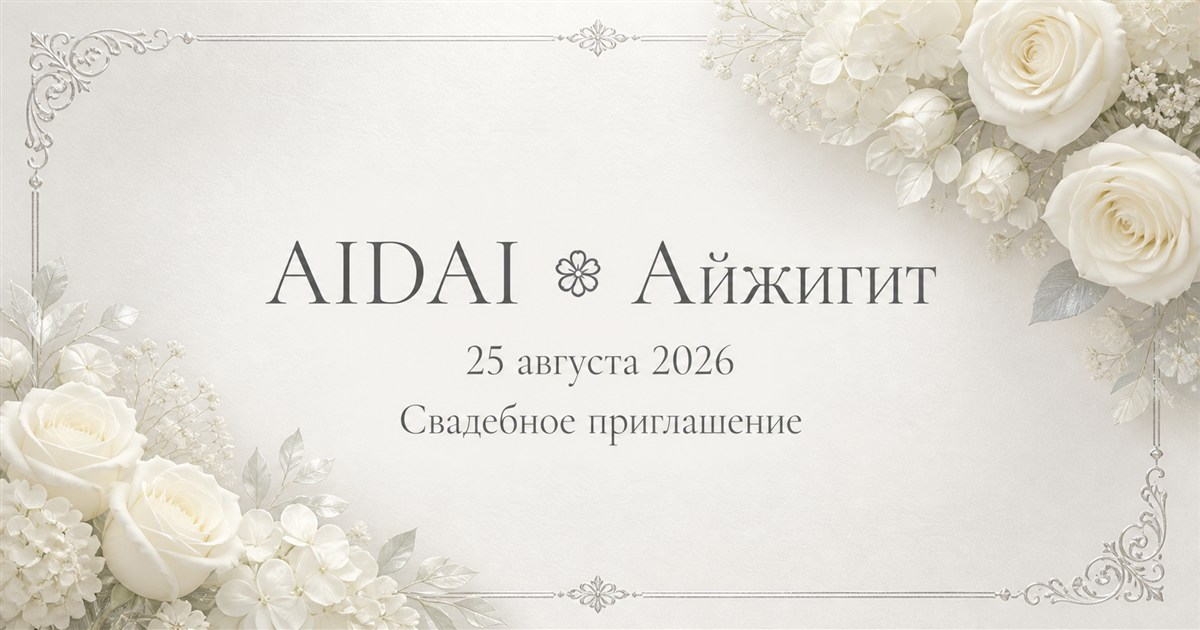
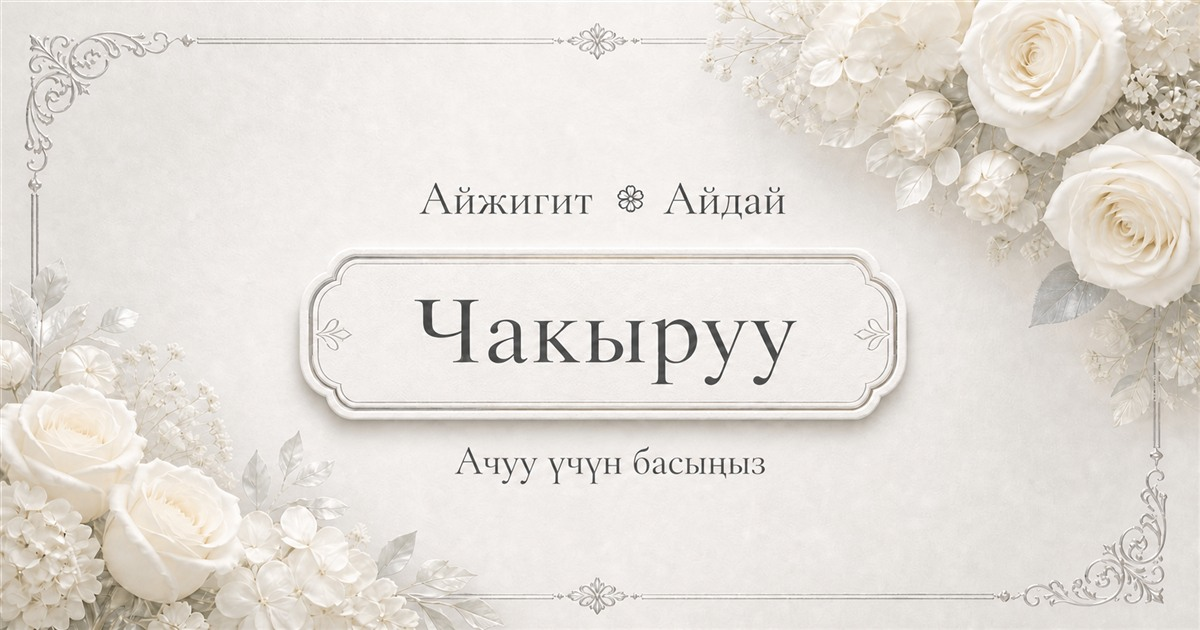
new

diff --git a/index.html b/index.html
@@ -5,7 +5,7 @@
     <meta name="viewport" content="width=device-width, initial-scale=1.0" />
     <meta
       name="description"
-      content="Свадебное приглашение · 25 августа 2026 · Palazzo, Бишкек"
+      content="Для Вас подготовлено персональное свадебное приглашение. Нажмите, чтобы открыть."
     />
     <meta
       name="keywords"
@@ -15,20 +15,20 @@
     <meta property="og:title" content="AIDAI ✿ Айжигит" />
     <meta
       property="og:description"
-      content="Свадебное приглашение&#10;25 августа 2026&#10;Palazzo, Бишкек"
+      content="Для Вас подготовлено персональное приглашение. Нажмите, чтобы открыть."
     />
     <meta property="og:type" content="website" />
     <meta property="og:site_name" content="AIDAI ✿ Айжигит" />
     <meta property="og:url" content="https://wedding.tanisten.com/" />
-    <meta property="og:image" content="https://wedding.tanisten.com/wedding-preview.jpg" />
+    <meta property="og:image" content="https://wedding.tanisten.com/wedding-preview.jpg?v=20260807c" />
     <meta property="og:image:width" content="1200" />
     <meta property="og:image:height" content="630" />
     <meta property="og:image:type" content="image/jpeg" />
     <meta property="og:image:alt" content="AIDAI ✿ Айжигит — свадебное приглашение" />
     <meta name="twitter:card" content="summary_large_image" />
     <meta name="twitter:title" content="AIDAI ✿ Айжигит" />
-    <meta name="twitter:description" content="Свадебное приглашение · 25 августа 2026 · Palazzo, Бишкек" />
-    <meta name="twitter:image" content="https://wedding.tanisten.com/wedding-preview.jpg" />
+    <meta name="twitter:description" content="Для Вас подготовлено персональное приглашение. Нажмите, чтобы открыть." />
+    <meta name="twitter:image" content="https://wedding.tanisten.com/wedding-preview.jpg?v=20260807c" />
     <meta name="theme-color" content="#070b13" />
     <link rel="icon" type="image/svg+xml" href="/favicon.svg" />
     <link rel="preconnect" href="https://fonts.googleapis.com" />

diff --git a/src/locales/weddingShare.ts b/src/locales/weddingShare.ts
@@ -1,30 +1,19 @@
 export type WeddingShareLocale = "ru";
 export type InvitationVoice = "groom" | "bride" | "parents";
+import type { GuestGender } from "../data/weddingGuests";
 
 type WeddingShareCopy = {
-  salutation: (guestName: string) => string;
+  salutation: (guestName: string, gender: GuestGender) => string;
   invitation: Record<InvitationVoice, string>;
-  date: string;
-  venue: string;
-  personalInvitation: string;
-  closing: Record<InvitationVoice, string>;
 };
 
 export const weddingShareCopy: Record<WeddingShareLocale, WeddingShareCopy> = {
   ru: {
-    salutation: (guestName) => `Уважаемый(ая) ${guestName}!`,
+    salutation: (guestName, gender) => `${gender === "female" ? "Уважаемая" : "Уважаемый"} ${guestName}!`,
     invitation: {
-      groom: "С радостью приглашаю Вас разделить с нами один из самых важных дней нашей жизни — нашу свадьбу.",
-      bride: "С радостью приглашаю Вас разделить с нами один из самых важных дней нашей жизни — нашу свадьбу.",
-      parents: "С радостью приглашаем Вас на свадьбу наших детей — Айжигита и Айдай."
-    },
-    date: "📅 25 августа 2026 года",
-    venue: "📍 Банкетный зал Palazzo, Бишкек",
-    personalInvitation: "Ваше персональное приглашение:",
-    closing: {
-      groom: "Будем искренне рады видеть Вас на нашем празднике!",
-      bride: "Будем искренне рады видеть Вас на нашем празднике!",
-      parents: "Будем искренне рады разделить этот счастливый день вместе с Вами!"
+      groom: "Пожалуйста, нажмите на ссылку ниже, чтобы открыть приглашение 😊",
+      bride: "Пожалуйста, нажмите на ссылку ниже, чтобы открыть приглашение 😊",
+      parents: "Пожалуйста, нажмите на ссылку ниже, чтобы открыть приглашение 😊"
     }
   }
 };

diff --git a/src/utils/weddingSharing.ts b/src/utils/weddingSharing.ts
@@ -1,10 +1,11 @@
 import { InvitationVoice, WeddingShareLocale, weddingShareCopy } from "../locales/weddingShare";
-import { WeddingInviter } from "../data/weddingGuests";
+import { GuestGender, WeddingInviter } from "../data/weddingGuests";
 
 const WEDDING_URL = "https://wedding.tanisten.com/";
 
 export type InvitationMessageInput = {
   guestName: string;
+  gender: GuestGender;
   guestId: string;
   inviterId: WeddingInviter["id"];
   locale?: WeddingShareLocale;
@@ -23,17 +24,15 @@ export function buildInvitationLink(guestId: string): string {
   return url.toString();
 }
 
-export function buildInvitationMessage({ guestName, guestId, inviterId, locale = "ru" }: InvitationMessageInput): string {
+export function buildInvitationMessage({ guestName, gender, guestId, inviterId, locale = "ru" }: InvitationMessageInput): string {
   const copy = weddingShareCopy[locale];
   const voice = invitationVoiceByInviter[inviterId];
   const invitationLink = buildInvitationLink(guestId);
 
   return [
-    copy.salutation(guestName),
+    copy.salutation(guestName, gender),
     copy.invitation[voice],
-    `${copy.date}\n${copy.venue}`,
-    `${copy.personalInvitation}\n\n${invitationLink}`,
-    copy.closing[voice]
+    invitationLink
   ].join("\n\n");
 }
 

diff --git a/src/pages/WeddingPage.tsx b/src/pages/WeddingPage.tsx
@@ -298,7 +298,7 @@ export default function WeddingPage() {
   return (
       <div className={`wapp-shell theme-${weddingStyle} ${entered ? "entered" : ""}`}>
         <PalazzoBackdrop />
-        <Seo title="AIDAI ✿ Айжигит" description={"Свадебное приглашение\n25 августа 2026\nPalazzo, Бишкек"} image="https://wedding.tanisten.com/wedding-preview.jpg" />
+        <Seo title="AIDAI ✿ Айжигит" description="Для Вас подготовлено персональное приглашение. Нажмите, чтобы открыть." image="https://wedding.tanisten.com/wedding-preview.jpg?v=20260807c" />
         <audio ref={audioRef} src={weddingMusic} preload="auto" onEnded={() => setMusic(false)} />
         <AnimatePresence>
           {!entered && <motion.section className="wapp-entry" initial={{ opacity: 1 }} exit={{ opacity: 0, scale: 1.025, filter: "blur(7px)" }} transition={{ duration: .85, ease: [0.22, 1, 0.36, 1] }}>

diff --git a/src/pages/WeddingAdminPage.tsx b/src/pages/WeddingAdminPage.tsx
@@ -40,7 +40,7 @@ export default function WeddingAdminPage() {
           {guests.map((guest) => {
             const slug = guest.slug ?? "";
             const link = buildInvitationLink(slug);
-            const message = buildInvitationMessage({ guestName: guest.name, guestId: slug, inviterId: inviter.id });
+            const message = buildInvitationMessage({ guestName: guest.name, gender: guest.gender, guestId: slug, inviterId: inviter.id });
             return <article key={`${inviter.id}-${guest.name}`}>
               <div><strong>{guest.name}</strong><a href={link} target="_blank" rel="noreferrer">{link}</a></div>
               <div className="wadmin-share-actions">
